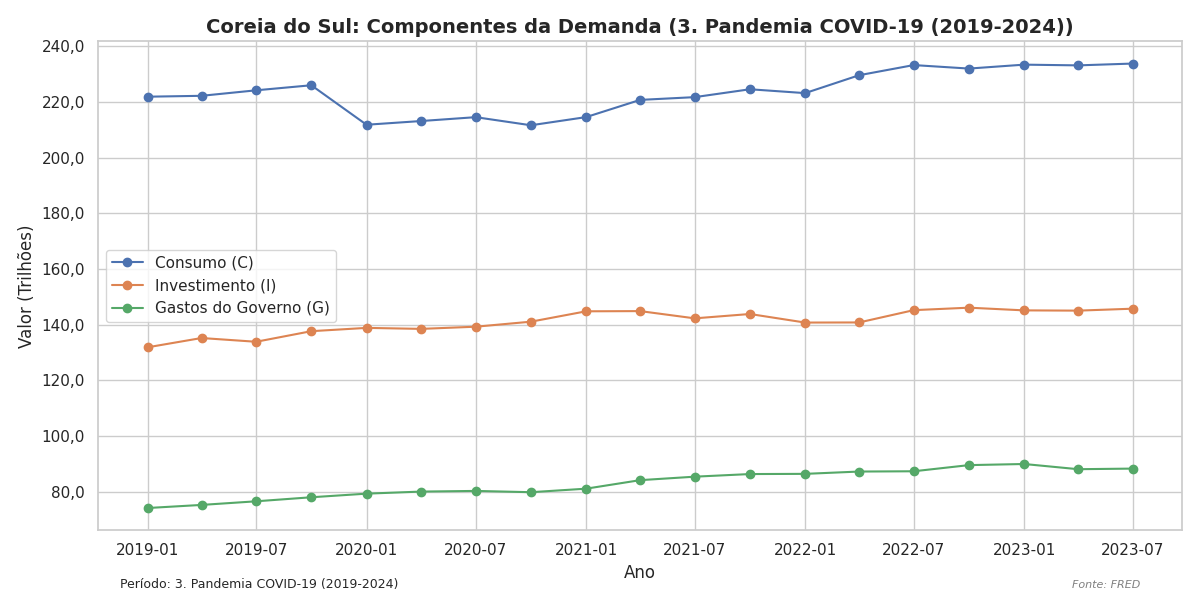
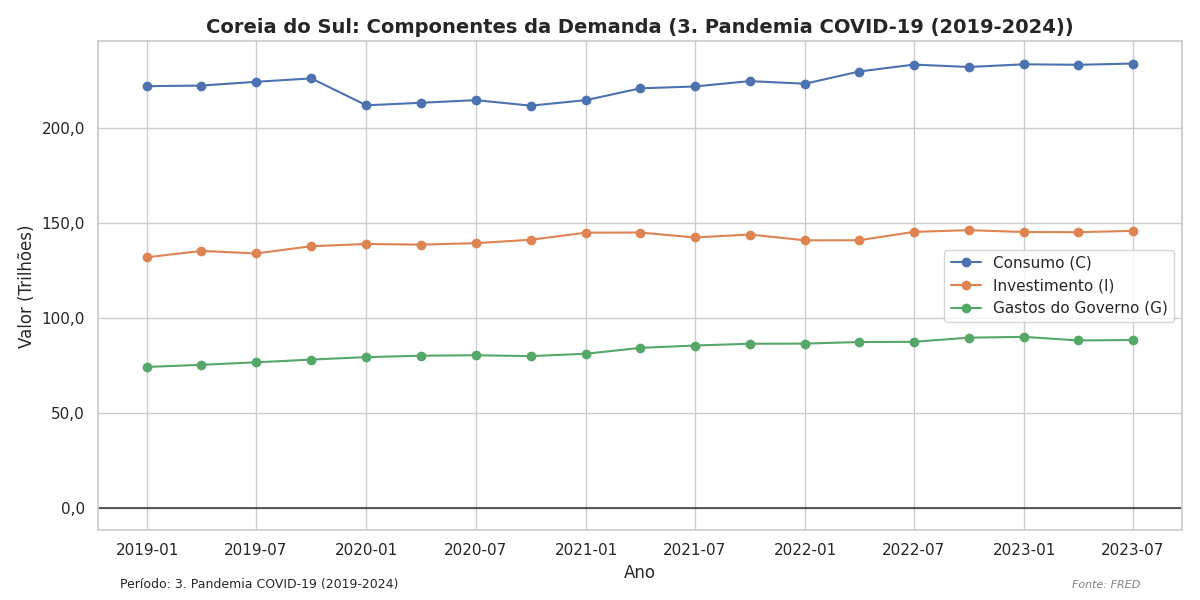
Reports v1

diff --git a/src/visualizer.py b/src/visualizer.py
@@ -48,6 +48,10 @@ class MacroVisualizer:
     def plot_time_series(self, df, columns, title, ylabel, filename, source="FRED", period_label=None):
         """Plota séries temporais simples com tradução e escala legível."""
         plt.figure(figsize=(12, 6))
+        
+        # Linha em zero em evidência (especialmente útil para o Hiato do Produto)
+        plt.axhline(0, color='black', linestyle='-', linewidth=1.5, alpha=0.6, zorder=1)
+        
         all_values = []
         for col in columns:
             if col in df.columns:

diff --git a/report/1_crise_do_petroleo.md b/report/1_crise_do_petroleo.md
@@ -1,0 +1,40 @@
+# Relatório 1: As Crises do Petróleo e a Consolidação do "Korea Inc." (1970-1985)
+
+## 1. Contexto Histórico e o Choque de Oferta
+Na década de 1970, a Coreia do Sul estava em meio a uma transformação estrutural profunda, migrando de indústrias leves para a **Industrialização Pesada e Química (HCI Drive)**. Este período foi marcado por dois choques externos massivos (1973 e 1979) que testaram os limites da dependência energética do país.
+
+### Evidências dos Dados
+*   **Inflação Descontrolada:** Conforme observado nos dados coletados, a inflação (CPI YoY) saltou de patamares baixos em 1973 para um pico de **29,2% em 1974** e, após o segundo choque, atingiu o recorde histórico de **32,5% em outubro de 1980**.
+*   **Contração Econômica:** O PIB real sofreu sua primeira queda significativa na história moderna em 1980, com uma variação negativa de aproximadamente **-1,5%**, rompendo uma sequência de crescimento de dois dígitos.
+
+## 2. Análise Teórica (Carlin & Soskice)
+
+### O Modelo IS-PC-MR
+O aumento do preço do petróleo representa um **choque de oferta negativo clássico**. 
+*   **Deslocamento da PC:** O aumento dos custos de insumos importados deslocou a **Curva de Phillips (PC) para cima**, gerando estagflação (inflação alta com produto em queda). 
+*   **A Queda da PS e ERU:** O custo da energia reduziu o salário real que as empresas podiam pagar. Teoricamente, isso deslocou a curva **PS para baixo** e a **ERU para a esquerda**, reduzindo o produto potencial sustentável ($y_e$).
+*   **Inércia e MR:** A Coreia inicialmente tentou acomodar o choque para não interromper os projetos de infraestrutura, mantendo a economia com um hiato de produto positivo em relação ao novo $y_e$, o que alimentou a inércia inflacionária vista no gráfico `1. Crise do Petroleo_hiato_inflacao.png`.
+
+### O Modelo AD-BT-ERU
+Sendo uma economia altamente dependente de importações de energia, a curva **BT (Balance of Trade)** foi pressionada. Para manter o equilíbrio comercial, a Coreia precisou de um ajuste drástico na taxa de câmbio real ($q$), resultando na **maxidesvalorização nominal de 20% em 1980** observada nos dados cambiais.
+
+## 3. Ações Governamentais e a Relação com as Chaebols
+
+### O Modelo "Korea Inc."
+O governo Park Chung-hee atuou como o "Arquiteto Central", utilizando as **Chaebols** como braços executores da política industrial.
+*   **HCI Drive e Policy Loans:** Para sustentar o investimento ($I$) na curva IS, o governo canalizou **"Empréstimos de Política"** com juros reais negativos para setores como aço (POSCO) e naval (Hyundai). Isso manteve a demanda agregada artificialmente alta durante os choques.
+*   **O Decreto de 3 de Agosto (1972):** Medida radical que congelou dívidas corporativas no mercado informal, convertendo-as em empréstimos bancários. Foi o "salvamento definitivo" das Chaebols, garantindo que a curva IS não colapsasse por insolvência financeira.
+
+### A Virada para a Estabilização (1980)
+Sob a presidência de Chun Doo-hwan e a liderança técnica de Kim Jae-ik, a Coreia mudou a postura da sua **Regra Monetária (MR)**:
+*   **Choque de Juros:** A taxa de juros foi elevada para **21%** em 1980 para quebrar a espiral inflacionária.
+*   **Plano de Estabilização Abrangente (CSP):** Foco em austeridade fiscal e controle de M2, aceitando o movimento descendente na MR para trazer a inflação de volta aos 3% observados em 1984.
+
+## 4. Conclusão do Período
+A gestão das Crises do Petróleo na Coreia do Sul demonstra uma transição dolorosa, mas eficaz, de um modelo de crescimento inflacionário liderado pelo Estado para uma economia estabilizada. O uso das Chaebols como ferramentas de política industrial permitiu que a base produtiva fosse preservada, pavimentando o caminho para a resiliência observada nas crises futuras.
+
+---
+*Gráficos de Referência:*
+*   `1. Crise do Petroleo_demanda.png`
+*   `1. Crise do Petroleo_hiato_inflacao.png`
+*   `1. Crise do Petroleo_teorico_ISPCMR.png`

diff --git a/report/3_pandemia_covid19.md b/report/3_pandemia_covid19.md
@@ -1,0 +1,41 @@
+# Relatório 3: A Pandemia COVID-19, Saúde e a Transição Tecnológica (2019-2024)
+
+## 1. Contexto e o Choque Misto
+A pandemia de COVID-19 representou um desafio macroeconômico inédito para a Coreia do Sul, combinando uma paralisia temporária da demanda doméstica com rupturas severas nas cadeias de suprimentos globais. Diferente das crises anteriores, a resposta exigiu uma integração total entre política sanitária e econômica.
+
+### Evidências dos Dados
+*   **Choque na IS:** No 1º tri de 2020, o consumo das famílias caiu de **225 trilhões** para **211 trilhões de Won**, conforme visto no gráfico `3. Pandemia_demanda.png`.
+*   **Inflação de Custos:** Após um período de deflação iminente em 2020, o CPI YoY saltou para **6,3% em julho de 2022**, impulsionado por energia e insumos médicos (verificados na série `CPI_Health`).
+*   **Esforço em Saúde:** Os gastos públicos com saúde (`Public_Health_Exp_GDP`) atingiram o patamar recorde de **8,8% do PIB** em 2022.
+
+## 2. Análise Teórica (Carlin & Soskice)
+
+### O Modelo IS-PC-MR
+*   **Choque Duplo:** A pandemia deslocou a curva **IS para a esquerda** (incerteza) e a curva **PC para cima** (choque de oferta de insumos).
+*   **Estabilização Fiscal:** Os pagamentos de auxílio (Relief Payments) e os quatro orçamentos suplementares em 2020 atuaram como um **deslocamento forçado da IS para a direita**, impedindo uma queda desastrosa do produto.
+*   **Compromisso com a Meta (MR):** O Banco da Coreia (BoK) reduziu os juros para a mínima histórica de **0,25%**, mas iniciou uma subida rigorosa a partir de 2022 para reancorar as expectativas na MR frente ao choque inflacionário global.
+
+### O Modelo AD-BT-ERU
+*   **K-Quarantine:** Ao evitar *lockdowns* totais, a Coreia manteve a curva **PS (Price-Setting)** mais estável do que outros países. A indústria continuou operando, permitindo que a Coreia capturasse a explosão de demanda global por semicondutores.
+*   **Exportações Recordes:** As exportações saltaram para **US$ 59,6 bilhões** em 2021, movendo a economia para baixo ao longo da curva **BT** (melhoria estrutural do saldo comercial).
+
+## 3. Ações Governamentais, Saúde e as Chaebols
+
+### Integração Saúde e Economia
+*   **K-Bangyeok:** O financiamento do sistema de "Teste, Rastreio e Tratamento" foi o maior estabilizador econômico do país, permitindo a manutenção da atividade industrial (Oferta) sem sacrificar a saúde pública.
+*   **Suporte às PMEs:** O governo aprovou o *Ato de Compensação de Perdas de Pequenos Negócios (2021)*, uma medida fiscal direta para evitar o fechamento em massa de serviços.
+
+### O "Korean New Deal" e o Apoio às Chaebols
+Para garantir a liderança pós-pandemia, o governo Moon Jae-in lançou o **K-New Deal (Digital e Verde)**:
+*   **Investimento Estratégico:** Foco nos setores **BIG3**: Semicondutores, Carros do Futuro e Bio-saúde.
+*   **K-Chips Act:** Concessão de créditos fiscais de até 25% para investimentos das Chaebols (Samsung, LG) em tecnologias críticas.
+*   **Teoria:** Esta política industrial visa **deslocar a PS para cima** no longo prazo, aumentando o salário real viável e a competitividade estrutural (deslocando a **ERU para a direita**).
+
+## 4. Conclusão do Período
+A resposta da Coreia do Sul à pandemia foi marcada pela sofisticação. O país utilizou seu espaço fiscal para proteger a demanda (IS), enquanto sua política industrial e sanitária preservava a oferta (PS/ERU). O resultado foi uma economia que não apenas sobreviveu, mas acelerou sua transição para uma liderança tecnológica global.
+
+---
+*Gráficos de Referência:*
+*   `3. Pandemia_saude.png`
+*   `3. Pandemia_hiato_inflacao.png`
+*   `3. Pandemia_teorico_ISPCMR.png`

diff --git a/report/2_crise_financeira_2008.md b/report/2_crise_financeira_2008.md
@@ -1,0 +1,39 @@
+# Relatório 2: A Crise Financeira Global e a Maturidade Exportadora (2007-2012)
+
+## 1. Contexto e o Choque de Demanda Externa
+Em 2008, a Coreia do Sul já era uma economia desenvolvida e profundamente integrada às cadeias globais de suprimentos. Ao contrário dos anos 70, o choque não foi de oferta (custos), mas sim de um colapso repentino na **demanda global**, afetando o coração da economia coreana: as exportações.
+
+### Evidências dos Dados
+*   **Colapso das Exportações:** Os dados extraídos mostram que as exportações mensais despencaram de quase **US$ 40 bilhões (jul/2008)** para **US$ 23,6 bilhões (jan/2009)** — uma retração de quase 40%.
+*   **Recuperação em "V":** A produção industrial, que caiu de um índice de **83,1** para **64,1** no final de 2008, retornou aos patamares pré-crise já em meados de 2009, demonstrando uma resiliência notável vista no gráfico `2. Crise Financeira_oferta.png`.
+
+## 2. Análise Teórica (Carlin & Soskice)
+
+### O Modelo IS-PC-MR
+*   **Deslocamento da IS:** A queda drástica nas exportações netas ($X$) deslocou a curva **IS severamente para a esquerda**, abrindo um hiato de produto negativo profundo.
+*   **Resposta via MR:** Com a inflação em queda (de 5,9% para 1,6%), o Banco da Coreia (BoK) teve espaço para descer pela sua **curva MR**, reduzindo a taxa de juros real de forma agressiva. A taxa de política monetária foi cortada de **3,50% para 1,25%**, estimulando o retorno da IS.
+
+### O Modelo AD-BT-ERU
+O ajuste mais impressionante ocorreu no mercado externo.
+*   **Amortecedor Cambial:** O Won depreciou de **914 Won/USD** para **1.449 Won/USD**. Teoricamente, esse aumento na taxa de câmbio real ($q \uparrow$) moveu a economia para cima ao longo da curva **BT**. 
+*   **Ganhos de Competitividade:** Mesmo com a curva AD deslocada para baixo (menos demanda mundial), os produtos coreanos tornaram-se comparativamente mais baratos, permitindo que as Chaebols capturassem fatias de mercado deixadas por competidores globais em crise.
+
+## 3. Ações Governamentais e as Chaebols
+
+### Resposta Fiscal e Industrial
+O governo Lee Myung-bak adotou uma postura proativa e "pró-business":
+*   **Green New Deal (2009):** Um pacote de estímulo de **50 trilhões de KRW** focado em infraestrutura e novas tecnologias. Isso atuou como um deslocamento da **IS para a direita**, contrabalançando a queda do setor externo.
+*   **Apoio à Liquidez:** A criação do **Fundo de Estabilização do Mercado de Títulos (10 trilhões de KRW)** garantiu que as Chaebols pudessem emitir dívida mesmo com o mercado global travado, mantendo a sensibilidade do investimento ($I$) estável.
+
+### Desregulamentação Estratégica
+*   **Fim do Limite Total de Investimento:** O governo aboliu as restrições que impediam as Chaebols de expandir seus investimentos cruzados.
+*   **Teoria:** Esta medida buscou elevar a produtividade e a flexibilidade dos conglomerados. No modelo, isso visa **deslocar a PS para cima** e a **ERU para a direita**, permitindo um crescimento de longo prazo com maior competitividade.
+
+## 4. Conclusão do Período
+A crise de 2008 marcou a consolidação da Coreia do Sul como uma potência resiliente. O uso inteligente da desvalorização cambial (BT) e do estímulo fiscal focado em infraestrutura (IS) permitiu que o país evitasse a recessão prolongada vista em 1997, emergindo com Chaebols (Samsung, Hyundai) ainda mais fortes no cenário global.
+
+---
+*Gráficos de Referência:*
+*   `2. Crise Financeira_demanda.png`
+*   `2. Crise Financeira_hiato_inflacao.png`
+*   `2. Crise Financeira_teorico_ADBTERU.png`

diff --git a/report/sintese_conclusiva.md b/report/sintese_conclusiva.md
@@ -1,0 +1,22 @@
+# Síntese Conclusiva: A Evolução da Resiliência Macroeconômica da Coreia do Sul
+
+## 1. O Arco da Evolução Institucional
+A análise das três grandes crises (Petróleo, Financeira de 2008 e Pandemia) revela a trajetória de amadurecimento institucional da Coreia do Sul. O país evoluiu de um modelo de crescimento forçado e vulnerável para uma economia tecnológica de alta resiliência.
+
+| Período | Natureza do Choque | Resposta Principal | Papel do Estado/Chaebols |
+| :--- | :--- | :--- | :--- |
+| **Anos 70/80** | Oferta (Energia) | Juros Altos + Desvalorização | Estado "Diretor" (HCI Drive) |
+| **2008** | Demanda (Externa) | Câmbio Flexível + Fiscal | Estado "Facilitador" (Green Growth) |
+| **2020** | Misto (Saúde/Global) | Integração Saúde + Inovação | Estado "Sócio" (K-New Deal) |
+
+## 2. Lições do Modelo Carlin & Soskice
+A aplicação do framework de Carlin & Soskice permitiu identificar padrões consistentes:
+*   **Regra Monetária (MR):** O Banco da Coreia demonstrou um aprendizado crescente, saindo de uma postura acomodatícia nos anos 70 para uma gestão rigorosa de expectativas e liquidez nas crises modernas.
+*   **Ajuste de Economia Aberta (BT):** A capacidade da Coreia de utilizar a taxa de câmbio real como amortecedor, aliada a uma política industrial que mantém a competitividade (deslocando a ERU e PS), é o segredo de sua resiliência exportadora.
+*   **Política Fiscal (IS):** O país provou que a solidez fiscal em tempos de crescimento é a ferramenta fundamental para permitir intervenções contracíclicas potentes durante choques globais.
+
+## 3. Considerações Finais
+A Coreia do Sul emerge desta análise não apenas como um caso de sucesso de industrialização, mas como um laboratório de política macroeconômica. A capacidade de integrar a saúde pública à estratégia industrial durante a pandemia de COVID-19 é o exemplo mais recente de sua agilidade institucional. Para o futuro, o desafio será manter esse dinamismo estrutural em um cenário de envelhecimento populacional e crescentes tensões nas cadeias globais de suprimentos.
+
+---
+*Este relatório foi gerado como parte do Trabalho de Macroeconomia (2026.1), fundamentado em dados reais do FRED, Banco Mundial e OCDE.*
